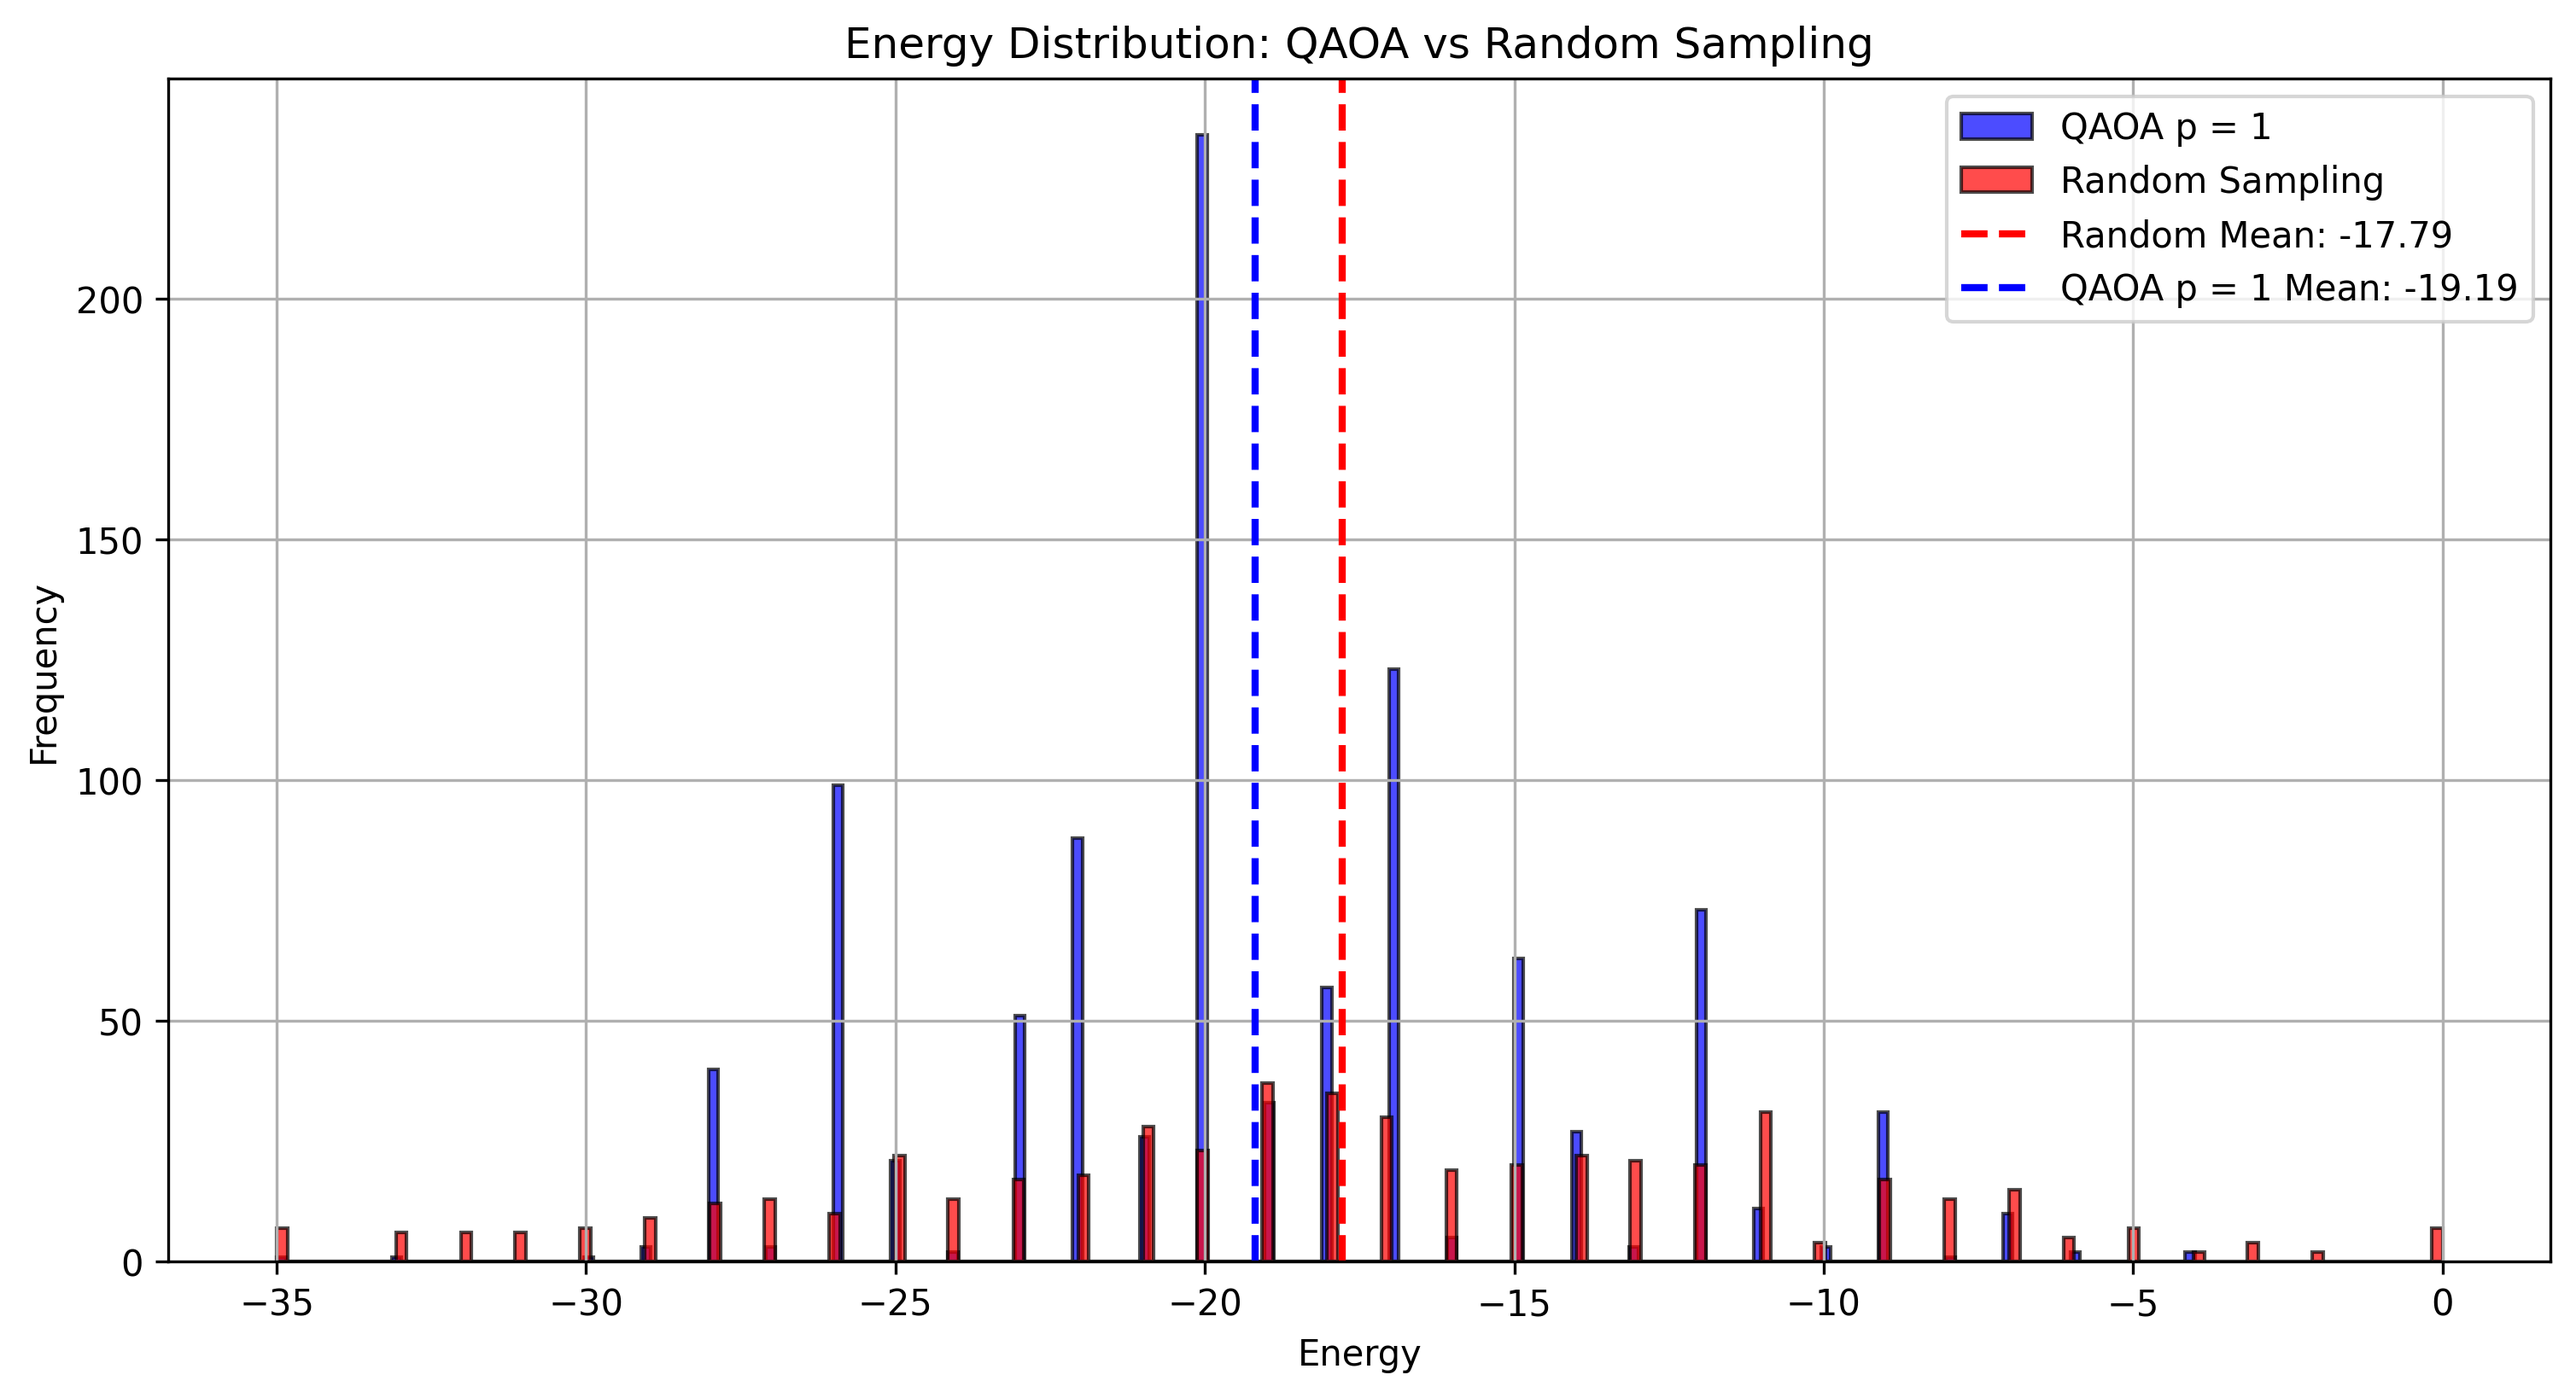
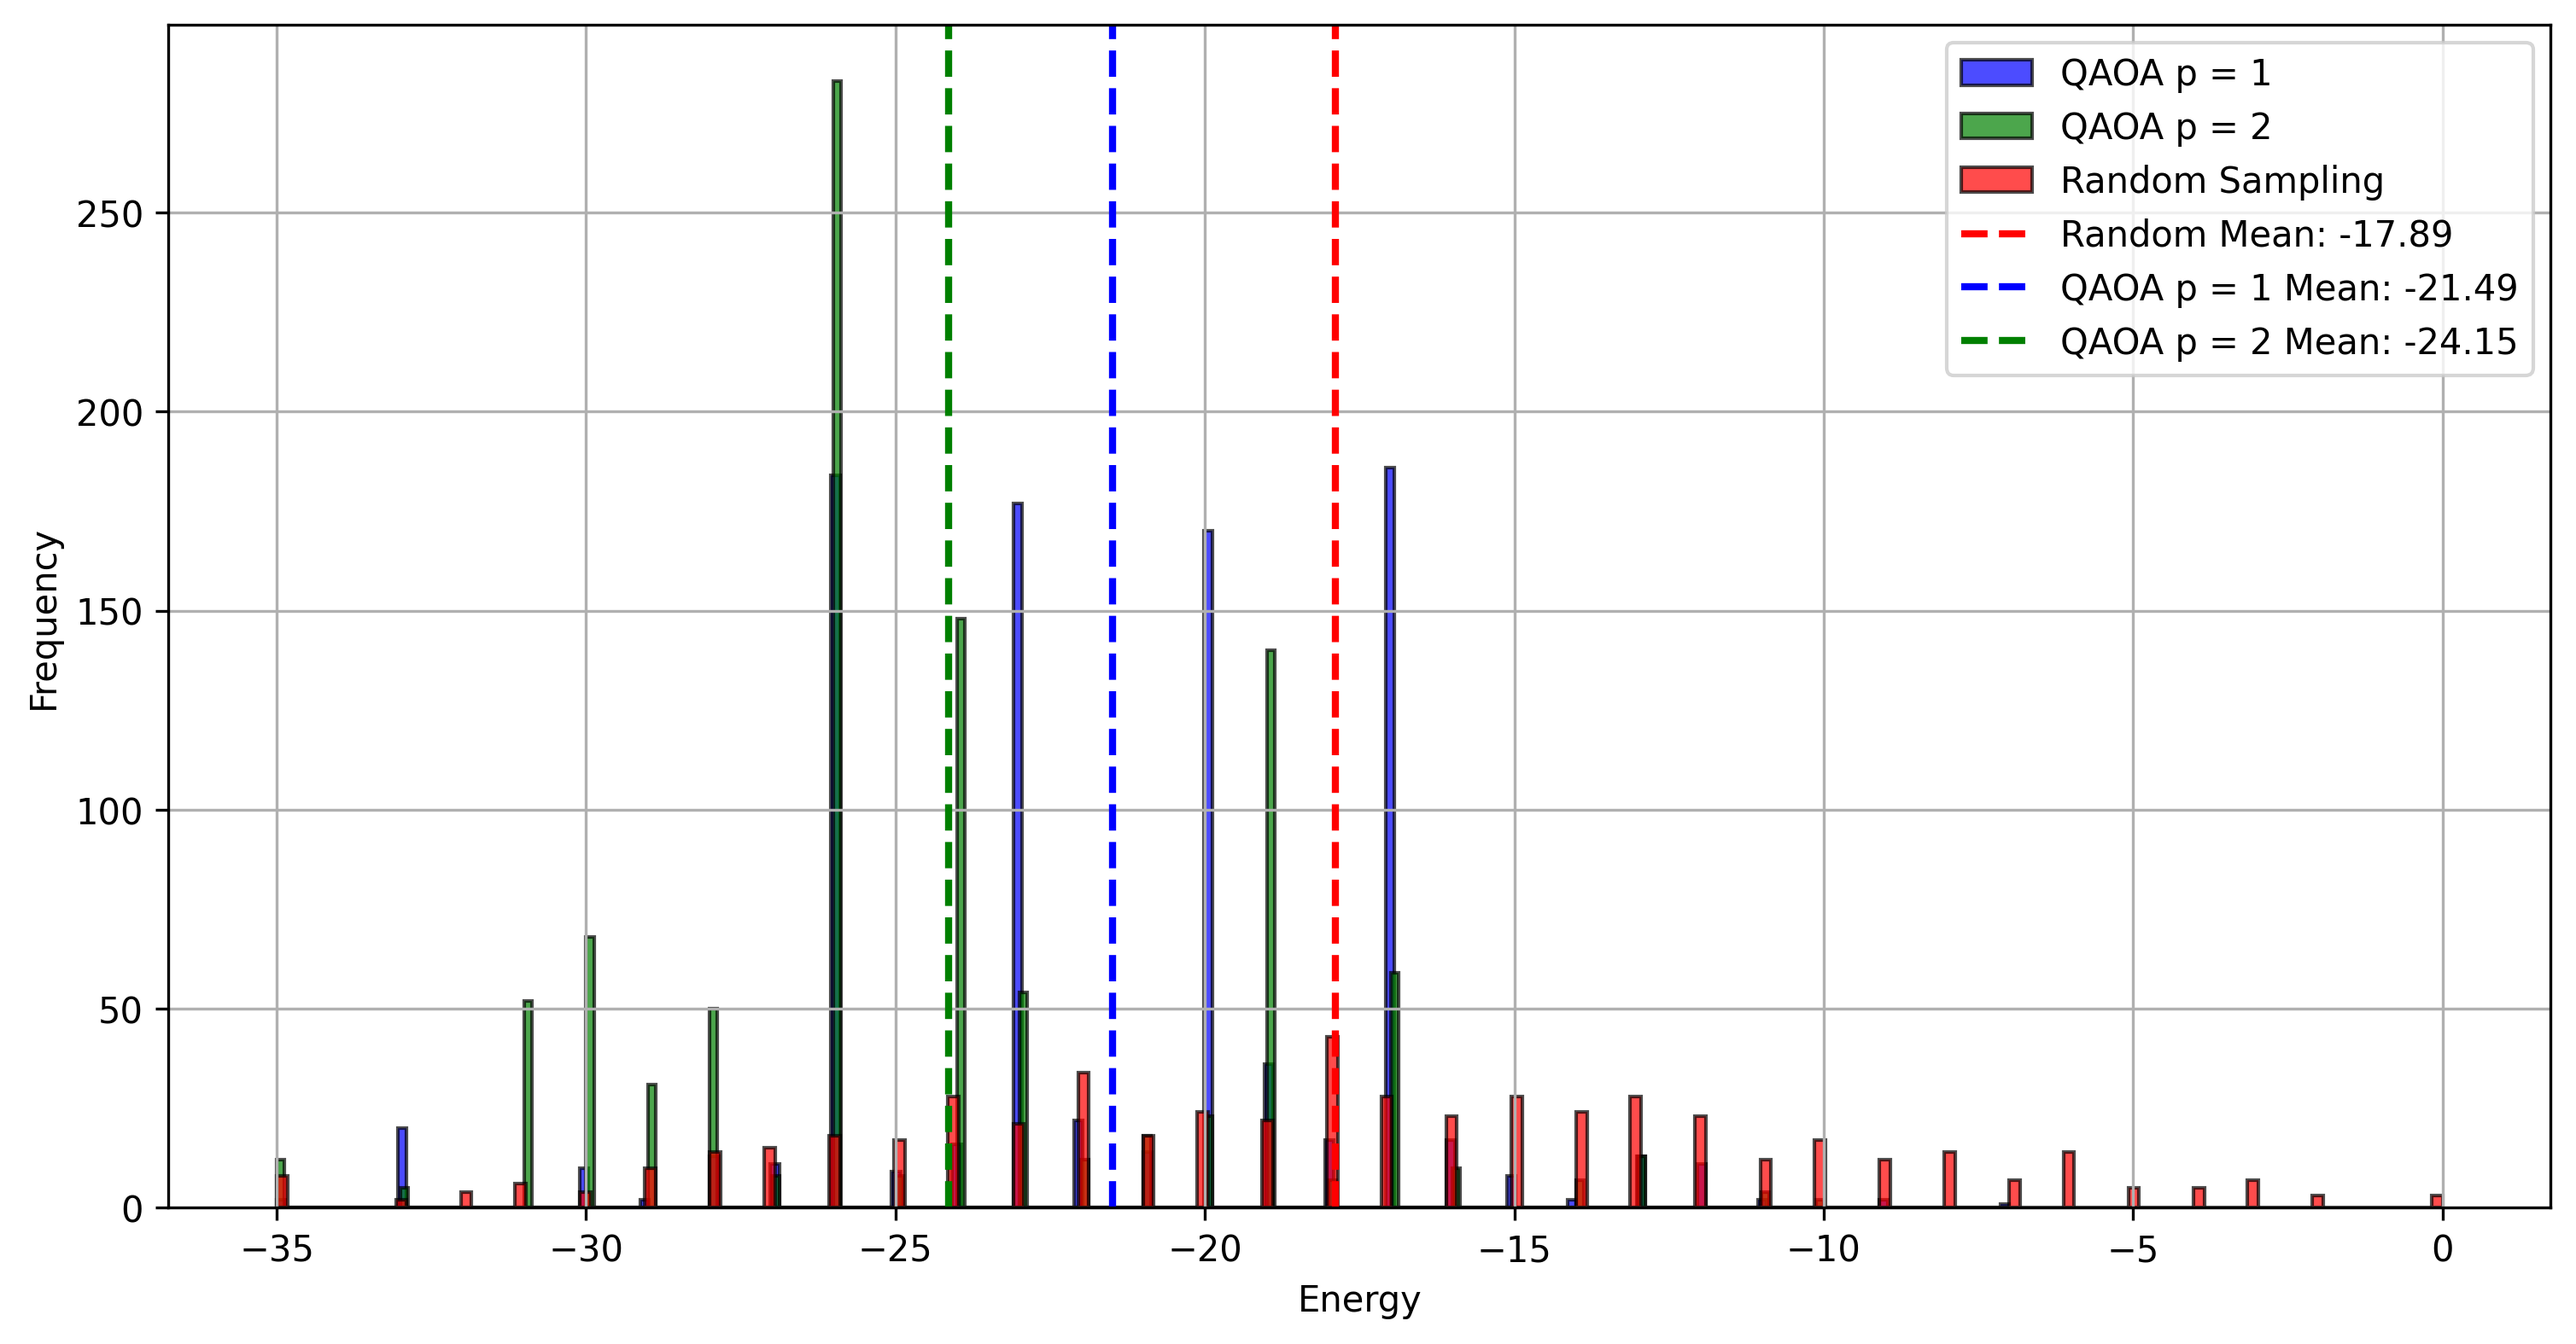
Refactor code

diff --git a/src/main.py b/src/main.py
@@ -1,8 +1,9 @@
+import dimod
 import numpy as np
 import ast
 
 from calculate_max_value import calculate_max_value
-from cost_hamiltonian import create_cost_hamiltonian
+from cost_hamiltonian import create_cost_hamiltonian_mwis
 from energy_histogram import generate_mwis_histogram
 from estimator_run import  estimator_run_qaoa, estimator_run_qaoa_grid
 from generate_chart import generate_heatmap, draw_bitstring_distribution
@@ -51,12 +52,12 @@ def read_graph(file_path):
 file_path = 'input/graph.txt'  # Update this to your file path
 graph = read_graph(file_path)
 n_qubits = len(graph)
-print(n_qubits)
-cost_hamiltonian = create_cost_hamiltonian(graph)
-
+cost_mwis = create_cost_hamiltonian_mwis(graph)
+# initial_beta = np.random.uniform(0, np.pi, 1)
+# initial_gamma = np.random.uniform(0, 2 * np.pi, 1)
 ''"run by sampler'"
 #expectation_values_2 = sampler_run_2(beta_values, gamma_values , n_qubits, cost_hamiltonian, graph)
-#expectation_values = sampler_run(beta_values, gamma_values , n_qubits, cost_hamiltonian, graph)
+# expectation_values = sampler_run(initial_beta, initial_gamma , n_qubits, cost_mwis, graph)
 
 ''"run by estimator'"
 # expectation_values = estimator_run(beta_values, gamma_values , n_qubits, cost_hamiltonian)
@@ -65,21 +66,28 @@ cost_hamiltonian = create_cost_hamiltonian(graph)
 # optimal_beta, optimal_gamma, optimal_energy = estimator_run_qaoa(
 #     n_qubits=n_qubits,
 #     p=1,
-#     cost_hamiltonian=cost_hamiltonian
+#     cost_mwis=cost_mwis
 # )
 # optimal_beta_2, optimal_gamma_2, optimal_energy_2 = estimator_run_qaoa(
 #     n_qubits=n_qubits,
 #     p=2,
-#     cost_hamiltonian=cost_hamiltonian
+#     cost_mwis=cost_mwis
 # )
-optimal_beta, optimal_gamma, optimal_energy = estimator_run_qaoa_grid(n_qubits,1, cost_hamiltonian, grid_resolution=10)
-# optimal_beta_2, optimal_gamma_2, optimal_energy_2 = estimator_run_qaoa_grid(n_qubits,2, cost_hamiltonian, grid_resolution=10)
-# print(optimal_beta, optimal_gamma, optimal_energy)
-# optimal_beta, optimal_gamma = calculate_max_value(optimal_beta, optimal_gamma, cost_hamiltonian, graph)
-# optimal_beta_2, optimal_gamma_2 = calculate_max_value(expectation_values_2, beta_values, gamma_values, cost_hamiltonian, graph)
-optimal_params = [(optimal_beta, optimal_gamma)]
+optimal_beta, optimal_gamma, optimal_energy = estimator_run_qaoa_grid(n_qubits,1, cost_mwis, grid_resolution=50)
+optimal_beta_2, optimal_gamma_2, optimal_energy_2 = estimator_run_qaoa_grid(n_qubits,2, cost_mwis, grid_resolution=16)
+print(optimal_beta, optimal_gamma, optimal_energy)
+optimal_params = [(optimal_beta, optimal_gamma), (optimal_beta_2, optimal_gamma_2)]
 print(optimal_gamma)
 print(optimal_beta)
 print(optimal_energy)
-draw_bitstring_distribution(n_qubits, optimal_beta, optimal_gamma, cost_hamiltonian)
-generate_mwis_histogram(optimal_params, n_qubits, cost_hamiltonian, graph)
+sampler = dimod.ExactSolver()
+sampleset = sampler.sample(cost_mwis)
+best_sample = sampleset.first.sample
+best_energy = sampleset.first.energy
+
+print("\nBest sample (bitstring with lowest energy):")
+print(best_sample)
+print("Best energy:")
+print(best_energy)
+draw_bitstring_distribution(n_qubits, optimal_beta, optimal_gamma, cost_mwis)
+generate_mwis_histogram(optimal_params, n_qubits, cost_mwis, graph)

diff --git a/src/estimator_run.py b/src/estimator_run.py
@@ -12,16 +12,16 @@ simulator = AerSimulator()
 estimator = Estimator()
 
 
-def qaoa_cost_function(params, n_qubits, p, cost_hamiltonian):
+def qaoa_cost_function(params, n_qubits, p, cost_mwis):
     beta = params[:p]
     gamma = params[p:]
-    qc = qaoa_circuit(beta, gamma, n_qubits, cost_hamiltonian)
+    qc = qaoa_circuit(beta, gamma, n_qubits, cost_mwis)
     # Wrap input properly as a tuple
-    job = estimator.run([qc], [bqm_to_pauli_sumop(cost_hamiltonian)])
+    job = estimator.run([qc], [bqm_to_pauli_sumop(cost_mwis)])
     results = job.result().values[0]
 
     return results
-def estimator_run_qaoa(n_qubits, p, cost_hamiltonian):
+def estimator_run_qaoa(n_qubits, p, cost_mwis):
     initial_beta = np.random.uniform(0, np.pi, p)
     initial_gamma = np.random.uniform(0, 2 * np.pi, p)
     initial_params = np.concatenate([initial_beta, initial_gamma])
@@ -29,9 +29,9 @@ def estimator_run_qaoa(n_qubits, p, cost_hamiltonian):
     result = minimize(
         qaoa_cost_function,
         initial_params,
-        args=(n_qubits, p, cost_hamiltonian),
+        args=(n_qubits, p, cost_mwis),
         method='COBYLA',
-        options={'maxiter': 200, 'disp': True}
+        tol=1e-4
     )
 
     optimal_beta = result.x[:p]
@@ -39,7 +39,7 @@ def estimator_run_qaoa(n_qubits, p, cost_hamiltonian):
 
     return optimal_beta, optimal_gamma, result.fun
 
-def estimator_run_qaoa_grid(n_qubits, p, cost_hamiltonian, grid_resolution=16):
+def estimator_run_qaoa_grid(n_qubits, p, cost_mwis, grid_resolution=16):
     beta_range = np.linspace(0, np.pi, grid_resolution)
     gamma_range = np.linspace(0, 2 * np.pi, grid_resolution * 2 )
 
@@ -54,19 +54,10 @@ def estimator_run_qaoa_grid(n_qubits, p, cost_hamiltonian, grid_resolution=16):
     for beta in beta_grid:
         for gamma in gamma_grid:
             params = np.concatenate([beta, gamma])
-            cost = qaoa_cost_function(params, n_qubits, p, cost_hamiltonian)
-            print(cost)
+            cost = qaoa_cost_function(params, n_qubits, p, cost_mwis)
             if cost < best_cost:
                 best_cost = cost
                 best_beta = beta
                 best_gamma = gamma
-    sampler = dimod.ExactSolver()
-    sampleset = sampler.sample(cost_hamiltonian)
-    best_sample = sampleset.first.sample
-    best_energy = sampleset.first.energy
 
-    print("\nBest sample (bitstring with lowest energy):")
-    print(best_sample)
-    print("Best energy:")
-    print(best_energy)
     return np.array(best_beta), np.array(best_gamma), best_cost

diff --git a/src/sampler_run.py b/src/sampler_run.py
@@ -56,23 +56,16 @@ def sampler_run(beta_values, gamma_values , n_qubits, cost_hamiltonian, adj_matr
             qc = qaoa_circuit([beta], [gamma], n_qubits, cost_hamiltonian)
             qc.measure_all()
             circuits.append(qc)
-            for beta_1 in beta_values:
-                for gamma_1 in gamma_values:
-                    qc_1 = qaoa_circuit([beta, beta_1], [gamma, gamma_1], n_qubits, cost_hamiltonian)
-                    qc_1.measure_all()
-                    circuits_1.append(qc_1)
 
             #expectation_values[i, j] = calculate_expectation_value(counts, adj_matrix)
-    result = sampler.run(circuits_1).result()
-    # result = sampler.run([circuits_1], shot=int(1e4))
+    result = sampler.run(circuits).result()
     print(result)
     cnt = 0
     for i in range(0,len(beta_values)):
         for j in range(0,len(gamma_values)):
-            for x in range(0, len(beta_values)):
-                for y in range(0, len(gamma_values)):
-                    counts = result[cnt].data.meas.get_counts()
-                    cnt += 1
-                    expectation_values[i, j, x, y] = calculate_expectation_value(counts, adj_matrix)
-
+            counts = result[cnt].data.meas.get_counts()
+            cnt += 1
+            expectation_values[i, j] = calculate_expectation_value(counts, adj_matrix)
+    print("expectation_value is:")
+    print(expectation_values)
     return expectation_values

diff --git a/src/cost_hamiltonian.py b/src/cost_hamiltonian.py
@@ -3,7 +3,7 @@ import networkx as nx
 from qiskit.quantum_info import Pauli, SparsePauliOp
 
 
-def create_cost_hamiltonian(G):
+def create_cost_hamiltonian_mwis(G):
 
     nodes = list(G.nodes())
     linear = {}
@@ -13,7 +13,6 @@ def create_cost_hamiltonian(G):
     for node in nodes:
         weight = G.nodes[node].get("weight", 1.0)  # Default weight is 1.0 if not specified.
         linear[node] = -weight / 2.0  # -w_i/2 * Z_i
-        print(linear[node])
 
     # Compute penalty A as the maximum sum of weights for any edge
     if G.edges():

diff --git a/src/energy_histogram.py b/src/energy_histogram.py
@@ -84,7 +84,6 @@ def generate_mwis_histogram(optimal_params_list, n_qubits, cost_hamiltonian, G, 
 
     plt.xlabel("Energy")
     plt.ylabel("Frequency")
-    plt.title("Energy Distribution: QAOA vs Random Sampling")
     plt.legend()
     plt.grid(True)
 
